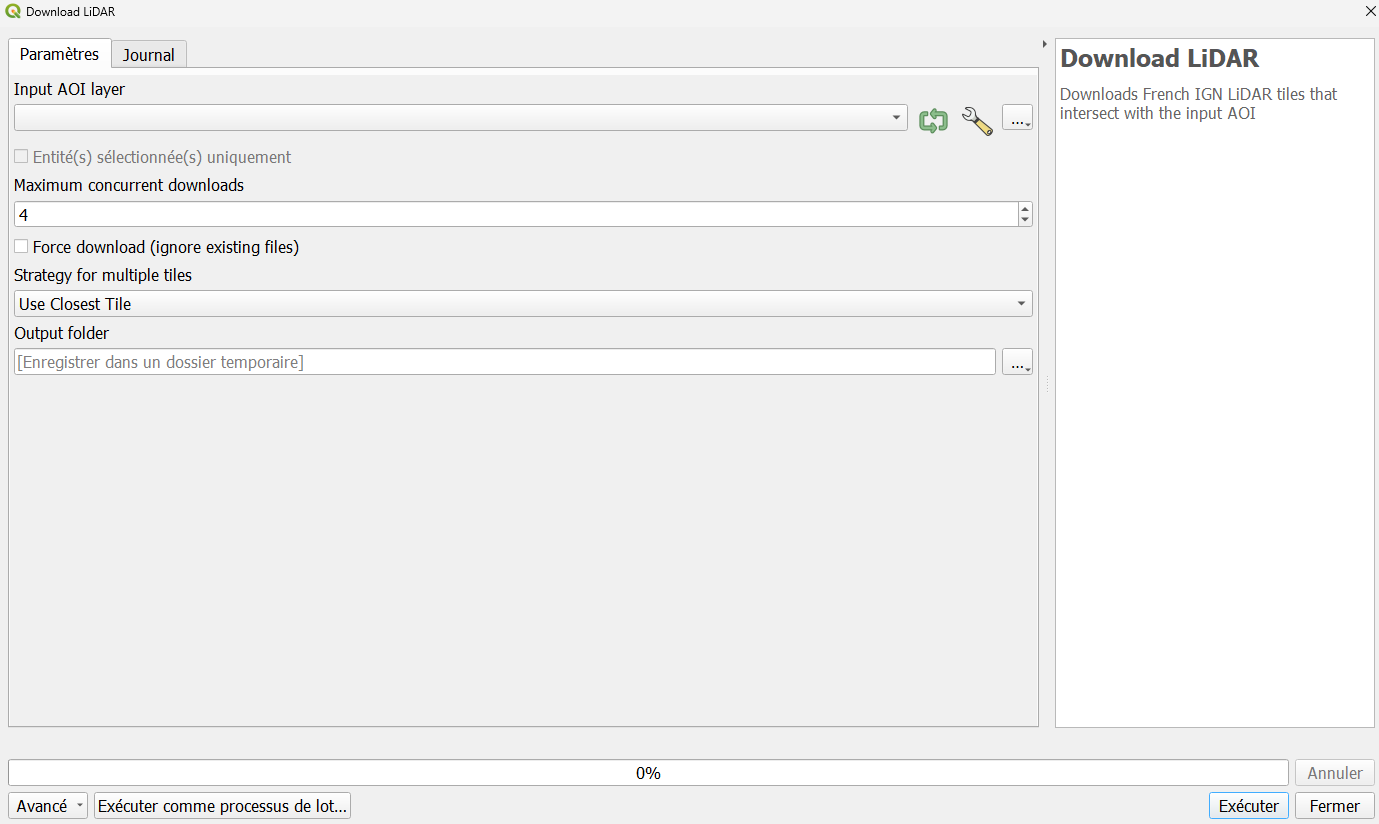
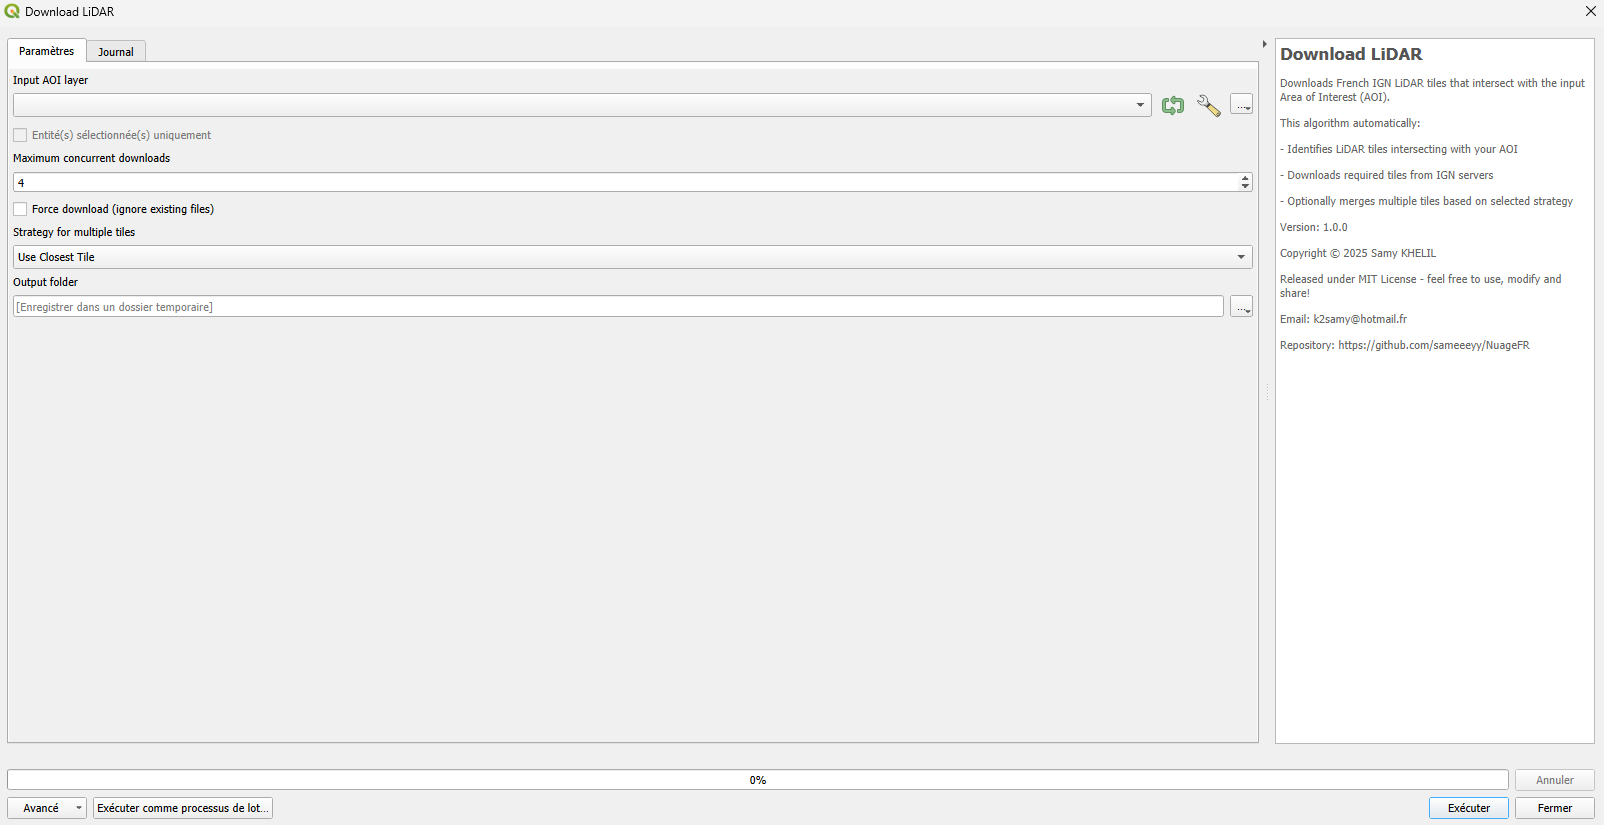
fixes

diff --git a/lidar_algorithm.py b/lidar_algorithm.py
@@ -54,7 +54,22 @@ class LidarDownloaderAlgorithm(QgsProcessingAlgorithm):
         return 'nuagefr'
 
     def shortHelpString(self):
-        return self.tr('Downloads French IGN LiDAR tiles that intersect with the input AOI')
+        """Returns a short help string for the algorithm."""
+        help_text = """
+    Downloads French IGN LiDAR tiles that intersect with the input Area of Interest (AOI).
+
+    This algorithm automatically:
+    - Identifies LiDAR tiles intersecting with your AOI
+    - Downloads required tiles from IGN servers
+    - Optionally merges multiple tiles based on selected strategy
+
+    Version: 1.0.0
+    Copyright © 2025 Samy KHELIL
+    Released under MIT License - feel free to use, modify and share!
+    Email: k2samy@hotmail.fr
+    Repository: https://github.com/sameeeyy/NuageFR
+    """
+        return self.tr(help_text)
 
     def initAlgorithm(self, config=None):
         self.addParameter(
